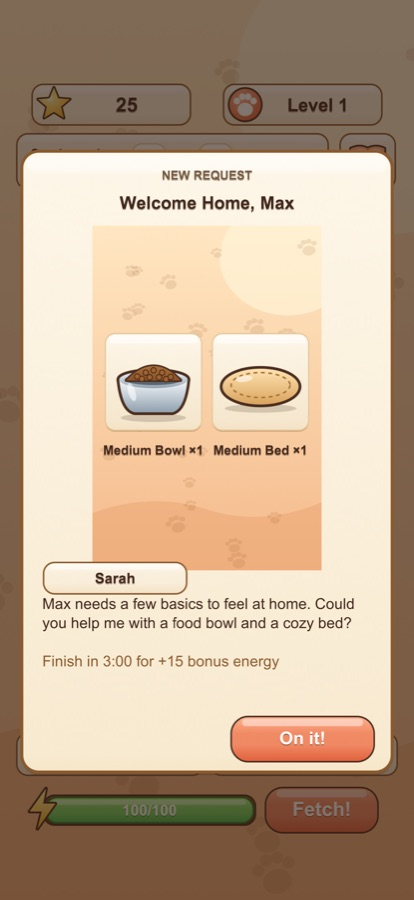
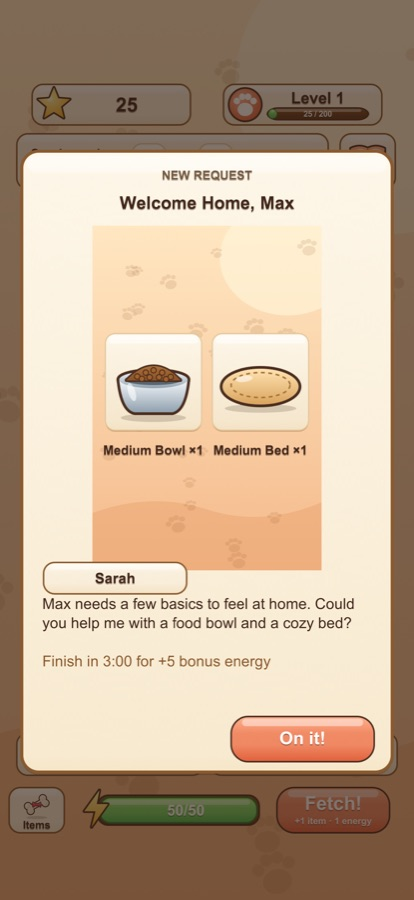
Add How to play page with game screenshots
A picture guide to the board, Items chart, energy, Fetch, levels, requests,
the Stories book, optional extras and the nap card, linked from every page.
Home page screenshots refreshed with the new HUD.

diff --git a/how-to-play/index.html b/how-to-play/index.html
@@ -1,0 +1,104 @@
+<!doctype html>
+<html lang="en">
+<head>
+  <meta charset="utf-8">
+  <meta name="viewport" content="width=device-width, initial-scale=1">
+  <title>How to play · Dog Stories</title>
+  <meta name="description" content="How to play Dog Stories: merging, the Items chart, energy, the Fetch power-up, levels, requests and stories.">
+  <link rel="icon" href="../images/favicon.png">
+  <link rel="apple-touch-icon" href="../images/apple-touch-icon.png">
+  <link rel="stylesheet" href="../styles.css">
+</head>
+<body>
+  <div class="wrap">
+    <nav class="top"><a href="../">← Dog Stories</a></nav>
+    <h1>How to play</h1>
+    <p class="lead">Dog Stories is a cozy merge game. Merge items to help each dog's human, earn points, and unlock the next chapter of the story. The game shows this same tour the first time you play, and you can replay it any time from the title screen or the Stories book.</p>
+
+    <section class="step">
+      <img src="../images/howto/howto-0-title.jpg" alt="The title screen with Play and How to play buttons" loading="lazy">
+      <div>
+        <h2>1. Start</h2>
+        <p>Tap <strong>Play</strong> to jump in, or <strong>How to play</strong> for a quick tour of the screen. The first time, Max's story opens and introduces your first request.</p>
+      </div>
+    </section>
+
+    <section class="step">
+      <img src="../images/howto/howto-1-tour.jpg" alt="The board highlighted, with an explanation of merging" loading="lazy">
+      <div>
+        <h2>2. Merge on the board</h2>
+        <p>Put 3 matching items together and they merge into something better. Tap three that match, or drag one so it touches two others. Bigger groups merge too.</p>
+      </div>
+    </section>
+
+    <section class="step">
+      <img src="../images/howto/howto-9-chart.jpg" alt="The merge chart showing bones, bowls, balls, toys and beds from Small to Legendary" loading="lazy">
+      <div>
+        <h2>3. Check the Items chart</h2>
+        <p>Not sure what merges into what? Tap <strong>Items</strong> at the bottom left. Each row is a family (bones, bowls, balls, toys and beds), going from Small to Medium, Large, Premium and Legendary.</p>
+      </div>
+    </section>
+
+    <section class="step">
+      <img src="../images/howto/howto-3-tour.jpg" alt="The energy bar highlighted" loading="lazy">
+      <div>
+        <h2>4. Mind your energy</h2>
+        <p>Every move, merge and fetch uses 1 energy. You have up to 50, and 1 comes back every 2 minutes, even while the game is closed.</p>
+      </div>
+    </section>
+
+    <section class="step">
+      <img src="../images/howto/howto-4-tour.jpg" alt="The Fetch button highlighted with a Power-up label" loading="lazy">
+      <div>
+        <h2>5. Use the Fetch power-up</h2>
+        <p>Tap <strong>Fetch!</strong> and a dog brings a new item to the board for 1 energy. Free items also drop in on their own every so often, a little faster as you level up.</p>
+      </div>
+    </section>
+
+    <section class="step">
+      <img src="../images/howto/howto-5-tour.jpg" alt="The level box highlighted, with its progress bar" loading="lazy">
+      <div>
+        <h2>6. Level up</h2>
+        <p>Merges earn points. The bar under your level shows how close the next level is, and new levels unlock new stories.</p>
+      </div>
+    </section>
+
+    <section class="step">
+      <img src="../images/howto/howto-6-tour.jpg" alt="The request banner highlighted" loading="lazy">
+      <div>
+        <h2>7. Finish requests</h2>
+        <p>The banner at the top shows what a dog's human needs. Make those items to finish the request and move the story along. Finish quickly for a little bonus energy. Tap the banner to read the request again.</p>
+      </div>
+    </section>
+
+    <section class="step">
+      <img src="../images/howto/howto-7-tour.jpg" alt="The Stories book button highlighted" loading="lazy">
+      <div>
+        <h2>8. Read stories and change settings</h2>
+        <p>The book button opens the Stories book. Reread any chapter you've unlocked, choose a music style, skip to the next song, and turn music and sounds on or off. How to play is in there too.</p>
+      </div>
+    </section>
+
+    <section class="step">
+      <img src="../images/howto/howto-8-tour.jpg" alt="The daily request and mini-challenge highlighted" loading="lazy">
+      <div>
+        <h2>9. Try the optional extras</h2>
+        <p>Below the board are a daily request and a mini-challenge for bonus energy and points. Tap either to see what it asks for. Skip them if you like; there's no penalty.</p>
+      </div>
+    </section>
+
+    <section class="step">
+      <img src="../images/howto/howto-10-nap.jpg" alt="The dogs are napping card, with the time until the next energy" loading="lazy">
+      <div>
+        <h2>10. Take a break when the dogs nap</h2>
+        <p>When your energy runs out, the dogs take a nap. The card shows when your next energy arrives and when you'll be full again. It's a good time for a break, or to reread a story.</p>
+      </div>
+    </section>
+
+    <footer>
+      <a href="../">Home</a> · <a href="../support/">Support</a> · <a href="../privacy/">Privacy policy</a>
+      <p>© 2026 Silly Willy Apps</p>
+    </footer>
+  </div>
+</body>
+</html>

diff --git a/styles.css b/styles.css
@@ -49,6 +49,26 @@ ul.features li { margin: 4px 0; }
 nav.top { margin-bottom: 8px; }
 nav.top a { text-decoration: none; font-weight: 600; }
 
+p.lead { color: var(--brown-soft); font-size: 1.05rem; }
+
+/* How to play: a screenshot beside each step */
+section.step {
+  display: grid; grid-template-columns: 200px 1fr; gap: 24px; align-items: center;
+  background: var(--card); border: 1px solid var(--line); border-radius: 20px;
+  padding: 20px 24px; margin-top: 20px;
+}
+section.step img {
+  width: 100%; border-radius: 14px; box-shadow: 0 4px 14px rgba(75, 46, 32, 0.18);
+}
+section.step h2 { margin-top: 0; }
+section.step p { margin: 0; }
+
+.more { text-align: center; margin-top: 24px; }
+.more a {
+  display: inline-block; padding: 10px 22px; border-radius: 999px;
+  border: 2px solid var(--orange); font-weight: 600; text-decoration: none;
+}
+
 dt { font-weight: 700; margin-top: 16px; }
 dd { margin: 4px 0 0; }
 
@@ -61,4 +81,6 @@ footer a { margin: 0 8px; }
   .shots { grid-template-columns: repeat(2, 1fr); }
   .card { padding: 20px; }
   h1 { font-size: 1.8rem; }
+  section.step { grid-template-columns: 1fr; gap: 14px; padding: 18px; }
+  section.step img { max-width: 260px; margin: 0 auto; }
 }

diff --git a/support/index.html b/support/index.html
@@ -17,7 +17,7 @@
       <h2>Common questions</h2>
       <dl>
         <dt>How do I merge?</dt>
-        <dd>Tap three matching items (the same item at the same tier), or drag items so that three matching ones touch. They merge into the next tier.</dd>
+        <dd>Tap three matching items (the same item at the same tier), or drag items so that three matching ones touch. They merge into the next tier. See <a href="../how-to-play/">How to play</a> for a picture guide.</dd>
 
         <dt>What does Fetch do?</dt>
         <dd>Fetch is a power-up: it brings a new item onto the board for 1 energy. Every move and merge also uses 1 energy. You have up to 50, and 1 comes back every 2 minutes, even while the game is closed. When it runs out, the dogs take a nap so you can take a break.</dd>
@@ -52,7 +52,7 @@
     <p>Dog Stories doesn't collect personal information. See the <a href="../privacy/">privacy policy</a>.</p>
 
     <footer>
-      <a href="../">Home</a> · <a href="../privacy/">Privacy policy</a>
+      <a href="../">Home</a> · <a href="../how-to-play/">How to play</a> · <a href="../privacy/">Privacy policy</a>
       <p>© 2026 Silly Willy Apps</p>
     </footer>
   </div>

diff --git a/index.html b/index.html
@@ -36,8 +36,10 @@
       </ul>
     </div>
 
+    <p class="more"><a href="how-to-play/">How to play</a></p>
+
     <footer>
-      <a href="privacy/">Privacy policy</a> · <a href="support/">Support</a>
+      <a href="how-to-play/">How to play</a> · <a href="support/">Support</a> · <a href="privacy/">Privacy policy</a>
       <p>© 2026 Silly Willy Apps</p>
     </footer>
   </div>

diff --git a/privacy/index.html b/privacy/index.html
@@ -36,7 +36,7 @@
     </div>
 
     <footer>
-      <a href="../">Home</a> · <a href="../support/">Support</a>
+      <a href="../">Home</a> · <a href="../how-to-play/">How to play</a> · <a href="../support/">Support</a>
       <p>© 2026 Silly Willy Apps</p>
     </footer>
   </div>
